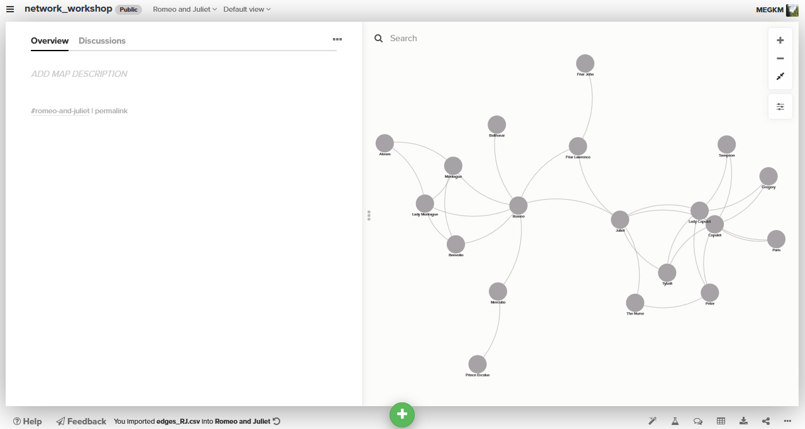
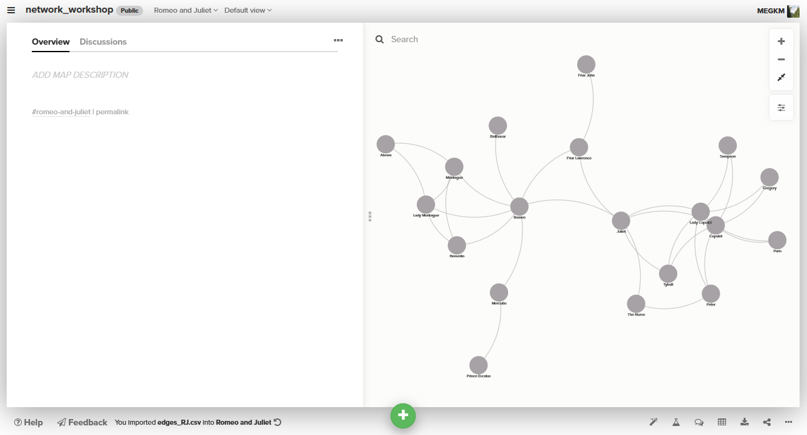
adjusted step5 screenshot

diff --git a/content/handson/kumu/content/workshopkumu.md b/content/handson/kumu/content/workshopkumu.md
@@ -95,13 +95,20 @@ Numbers 1-7 illustrate the locations of the following elements:
 	![Load data box](img/step4f.PNG)  
 <br>
 
-## 5. Change **workspace size**.  
-We want our workspace to be smaller and in landscape orientation.  
-1. Click the **gear** next to the workspace to open the properties menu  
-2. Change the **height** to be _500px_  
-
+## 5. Adjust node **styles** of the map to draw out themes.  
+In our nodes file, we had a field for ‘Loyalty’ (_Montague, Capulet or None_).  
+1. Click the **options** button on the right side of the map to open the **settings panel**.  
+ 
 	![Change workspace size dialogue](img/step5.PNG) 
 <br>
+2. Change the **height** to be _500px_  
+ 
+	![Change workspace size dialogue](img/step5b.PNG) 
+<br>
+3. Your map should now look something like:
+ 
+	![Change workspace size dialogue](img/step5c.PNG)
+ <br>
 
 ## 6. Set **background**.  
 Stark white and black are hard on the eyes, so we will start by setting the background colour to a light grey.  
